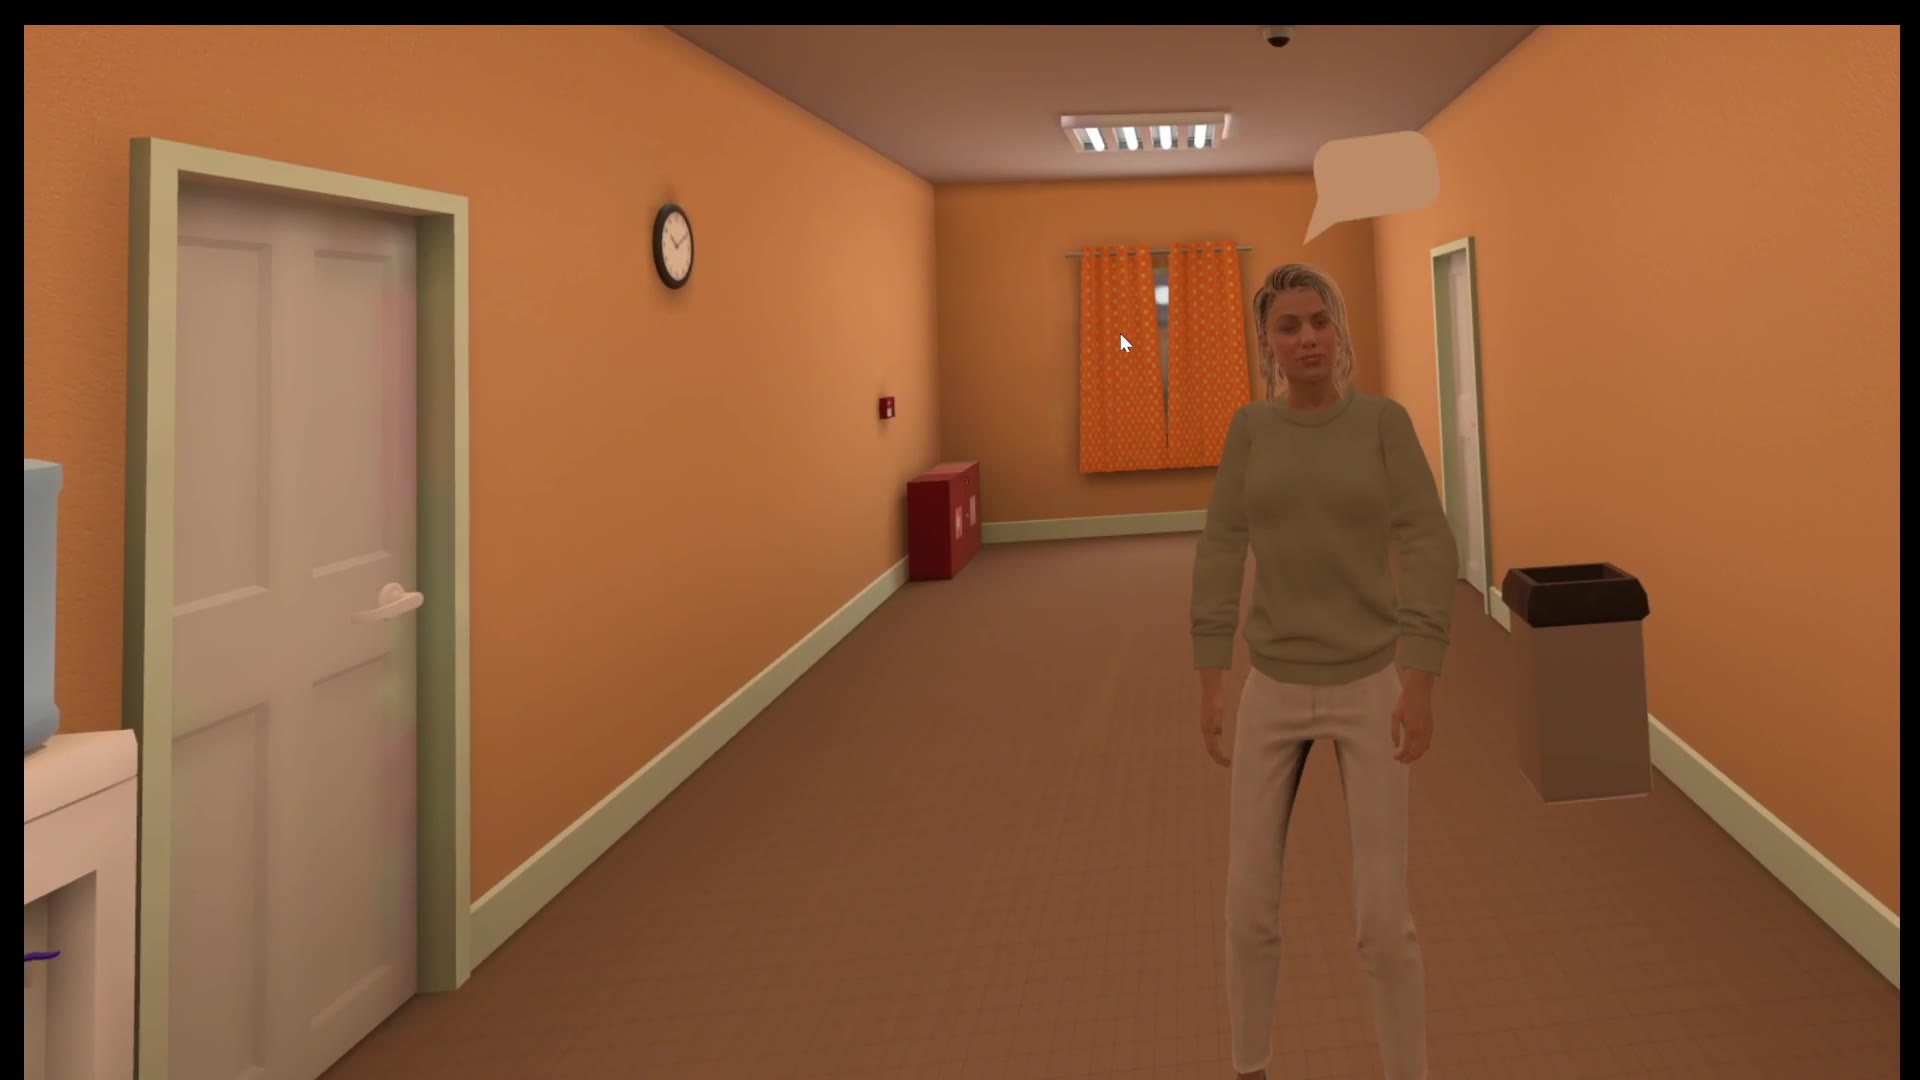
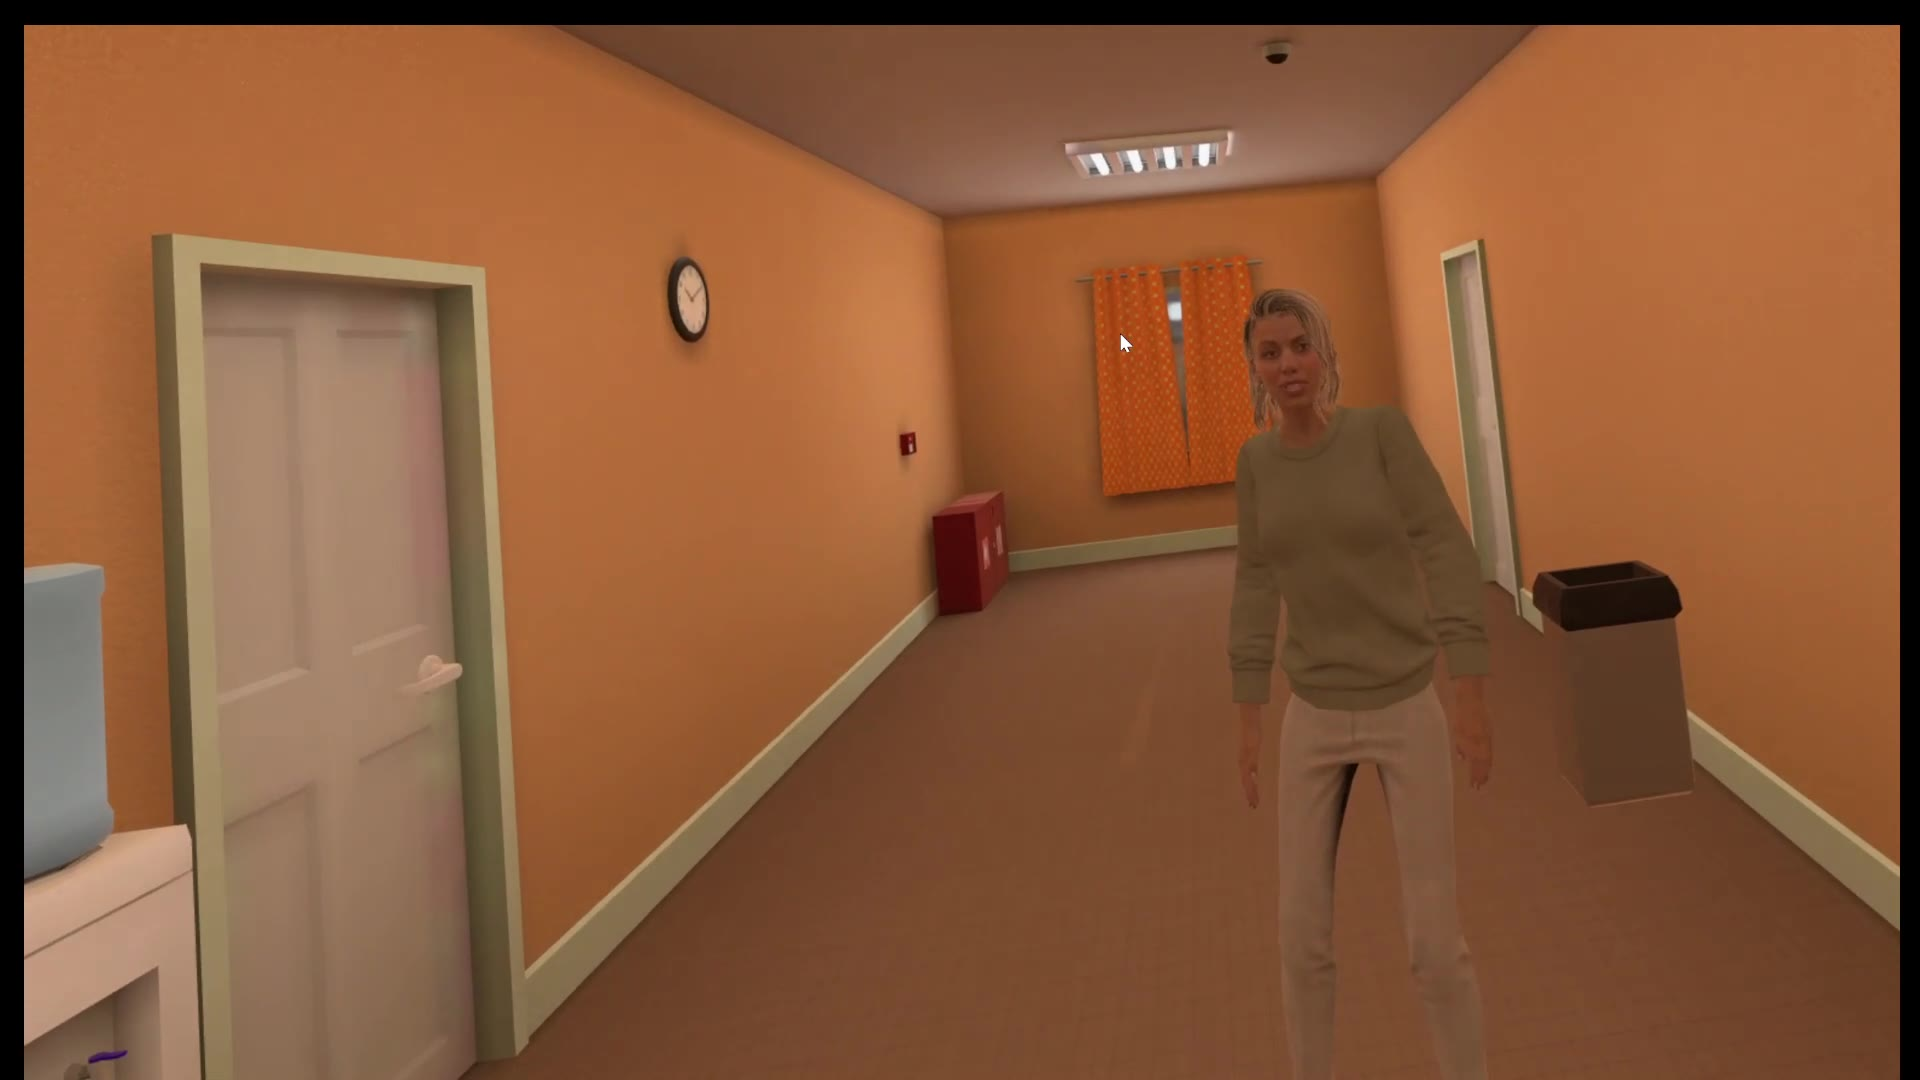
v0.1.6

Changed region(s): [[0.0, 0.0, 1.0, 1.0], [0.3125, 0.1833, 0.375, 0.3361], [0.6562, 0.0306, 0.6875, 0.0611]]

diff --git a/assets/css/custom.css b/assets/css/custom.css
@@ -3772,6 +3772,16 @@ code,
   object-fit: cover;
   border: 1px solid #191915;
 }
+.ale-project-gallery--contain img {
+  aspect-ratio: auto;
+  height: auto;
+  max-height: 520px;
+  object-fit: contain;
+  background: #fff;
+}
+.ale-project-gallery--contain figure {
+  min-width: 0;
+}
 .ale-project-feature {
   margin: 2rem 0 2.75rem;
 }
@@ -3840,6 +3850,32 @@ code,
   gap: 0.35rem;
   font-size: 0.78rem;
 }
+.ale-project-related-list {
+  margin: 1.5rem 0 3rem;
+  padding: 0;
+  border-top: 1px solid #191915;
+  list-style: none;
+}
+.ale-project-related-list li {
+  padding: 1rem 0;
+  display: grid;
+  grid-template-columns: minmax(150px, .35fr) minmax(0, 1fr) minmax(120px, .25fr);
+  gap: 1rem;
+  align-items: baseline;
+  border-bottom: 1px solid #191915;
+}
+.ale-project-related-list li > span,
+.ale-project-related-list small {
+  font-size: .72rem;
+  line-height: 1.4;
+  letter-spacing: .04em;
+  text-transform: uppercase;
+}
+.ale-project-related-list strong,
+.ale-project-related-list a {
+  font-size: .9rem;
+  line-height: 1.45;
+}
 
 @media (max-width: 720px) {
   .ale-project-gallery,
@@ -3851,5 +3887,9 @@ code,
   .ale-related-work article:nth-child(even) {
     padding: 1.15rem 0;
     border-left: 0;
+  }
+  .ale-project-related-list li {
+    grid-template-columns: 1fr;
+    gap: .35rem;
   }
 }

diff --git a/_projects/adamo.md b/_projects/adamo.md
@@ -1,28 +1,59 @@
 ---
 layout: page
 title: A.D.A.M.O.
-description: Visual-symbolic framework for language-driven virtual humans, combining VLM perception with symbolic reasoning and action.
-img: # copertina card: caricare un'immagine in assets/img/projects/ e mettere qui il percorso, es. assets/img/projects/adamo.jpg
+description: A virtual human that understands instructions and acts inside a 3D environment.
+img: assets/img/projects/adamo/video-poster.jpg
 importance: 1
 category: phd-research
 related_publications: true
 ---
 
-A.D.A.M.O. (**A**gent for language-**D**riven **A**ctions with **M**ultimodal **O**bservations) is a **visual-symbolic framework for language-driven virtual humans**: it combines **VLM perception** with **symbolic reasoning and action**, letting a virtual human ground natural-language instructions in what it actually perceives in the 3D environment.
+<p class="ale-project-lead">A.D.A.M.O. is an intelligent virtual human that can receive a natural-language instruction, observe a 3D environment and act inside it to complete the requested task.</p>
 
-I am currently extending the framework with **long-term spatial memory** for deep exploration of 3D environments, so that the agent can accumulate and reuse spatial knowledge over time instead of re-discovering the scene at every session.
+Virtual characters are usually good at only one side of the interaction. Conversational agents can speak but often have little awareness of their surroundings, while game characters can move and manipulate objects but depend on predefined scripts. A.D.A.M.O. brings language, visual perception and action into the same system, allowing a character to respond to new instructions without requiring a separate scripted sequence for each task.
 
-The framework is presented in {% cite pecora2026adamo %}.
-
-<p class="ale-project-actions"><a href="https://github.com/CGVGroup/ADAMO" target="_blank" rel="noopener noreferrer"><i class="fa-brands fa-github" aria-hidden="true"></i> Code <span aria-hidden="true">↗</span></a></p>
-
-{% comment %}
-Quando avrai screenshot/GIF/video, aggiungili così (immagini in assets/img/projects/):
-
-<div class="row">
-    <div class="col-sm mt-3 mt-md-0">
-        {% include figure.liquid loading="eager" path="assets/img/projects/adamo-1.jpg" title="A.D.A.M.O. demo" class="img-fluid rounded z-depth-1" %}
-    </div>
+<div class="ale-project-video">
+  <video controls preload="metadata" poster="{{ '/assets/img/projects/adamo/video-poster.jpg' | relative_url }}">
+    <source src="{{ '/assets/video/adamo-demo.mp4' | relative_url }}" type="video/mp4">
+    Your browser does not support embedded video.
+  </video>
+  <p>A.D.A.M.O. interprets the request, observes the room and moves objects to complete a spatial task.</p>
 </div>
-<div class="caption">Didascalia dell'immagine.</div>
-{% endcomment %}
+
+## How it works
+
+The virtual human works in a continuous loop: it looks at the environment, decides what to do next and performs an action. Its available actions are intentionally simple—looking, walking, picking up an object and placing it somewhere else—but they can be combined to solve more complex instructions.
+
+To understand the scene, A.D.A.M.O. combines the character's visual point of view with structured spatial information about visible objects. This visual-symbolic representation helps the AI connect phrases such as “the plate near the cup” with specific elements and positions in the virtual world. A short-term memory keeps the task and recent observations available while the character works through each step.
+
+<div class="ale-project-gallery ale-project-gallery--contain">
+  <figure>
+    <img src="{{ '/assets/img/projects/adamo/virtual-environment.png' | relative_url }}" alt="A.D.A.M.O. virtual human inside a furnished 3D room" loading="lazy">
+    <figcaption>The virtual human operates inside an interactive 3D environment.</figcaption>
+  </figure>
+  <figure>
+    <img src="{{ '/assets/img/projects/adamo/infrastructure.png' | relative_url }}" alt="Connection between the virtual environment, cognitive server and AI model" loading="lazy">
+    <figcaption>The simulation, actions and AI reasoning remain separate and can evolve independently.</figcaption>
+  </figure>
+</div>
+
+The current prototype was evaluated on everyday spatial tasks in two controlled scenes. The experiments show that clear semantic information about objects improves task completion, while visual perception remains the main source of difficulty in larger scenes. Current development is extending the agent with longer-term spatial memory so that it can retain and reuse knowledge about environments over time.
+
+## Context and collaboration
+
+A.D.A.M.O. was developed within the **Computer Graphics and Vision Group at Politecnico di Torino** as part of research on believable virtual humans, embodied AI and cognitive architectures. The work was presented at **CASA XR 2026**.
+
+## Related work
+
+<ul class="ale-project-related-list">
+  <li>
+    <span>Conference paper · CASA XR 2026 · in press</span>
+    <strong>A.D.A.M.O. (Agent for language-Driven Actions with Multimodal Observations): A Visual-Symbolic Framework for Virtual Humans</strong>
+    <small>A. E. Pecora, S. Calzolari, F. Strada and A. Bottino</small>
+  </li>
+  <li>
+    <span>Open-source software</span>
+    <a href="https://github.com/CGVGroup/ADAMO" target="_blank" rel="noopener noreferrer">A.D.A.M.O. project repository <span aria-hidden="true">↗</span></a>
+    <small>Code and project resources</small>
+  </li>
+</ul>

diff --git a/_projects/divine.md b/_projects/divine.md
@@ -1,59 +1,57 @@
 ---
 layout: page
 title: DIVINE
-description: From open vine imagery to an in-field, AI-assisted pipeline for grapevine disease detection.
+description: Computer vision for recognising grapevine diseases directly in the field.
 img: assets/img/projects/divine/field-rover.jpeg
 importance: 2
 category: applied-research
 ---
 
-<p class="ale-project-lead">DIVINE explores how computer vision can turn vineyard imagery into evidence for earlier, more targeted disease management—reducing the need for indiscriminate treatments while keeping deployment constraints in view.</p>
+<p class="ale-project-lead">DIVINE is a precision-agriculture project that uses cameras and artificial intelligence to recognise visible signs of disease on grapevine leaves. Its goal is to support faster and more targeted monitoring directly in the vineyard.</p>
 
-## From public data to the vineyard
+Vineyard diseases are often monitored manually, while treatments may be applied broadly because detailed information about each area is unavailable. Computer-vision systems could support more selective interventions, but real vineyards are much less predictable than controlled image datasets: leaves overlap, symptoms can be small, lighting changes and healthy samples greatly outnumber diseased ones. DIVINE focuses on these practical limitations.
 
-The project has evolved through two complementary research phases. The first established the data and modelling foundations. Four public sources were cleaned, harmonised and re-annotated to create the **Vine Leaf Vision Dataset**: nearly 10,000 images of individual leaves and vine walls, with more than 38,000 bounding-box annotations. Visual symptom patterns were used as labels so that non-specialist annotators could contribute with less diagnostic ambiguity. Experiments then studied how pre-training on this collection affected transfer to previously unseen diseases, comparing classification and object-detection families including MobileNet, Vision Transformers, YOLO and DETR.
-
-The current phase moves DIVINE into real acquisition conditions. At the experimental vineyard in Grugliasco, an autonomous electric rover carries a Nikon Z50 camera, controlled halogen lighting and centimetre-level GNSS RTK positioning. The campaign produced **1,832 high-resolution images**. A semi-automatic Label Studio workflow first proposes leaf boxes with YOLOv11n and a patch-based detector; a DISAFA agronomist then verifies the boxes and assigns disease labels. This keeps the speed benefit of machine assistance while reserving diagnosis for domain expertise.
-
-<div class="ale-project-gallery ale-project-gallery--three">
+<div class="ale-project-gallery ale-project-gallery--three ale-project-gallery--contain">
   <figure>
     <img src="{{ '/assets/img/projects/divine/field-rover.jpeg' | relative_url }}" alt="Autonomous acquisition rover between rows of grapevines" loading="eager">
-    <figcaption>The in-field acquisition platform in the Grugliasco experimental vineyard.</figcaption>
+    <figcaption>The acquisition platform operating in the experimental vineyard.</figcaption>
   </figure>
   <figure>
     <img src="{{ '/assets/img/projects/divine/ai-assisted-detection.jpeg' | relative_url }}" alt="Vine leaves with automatically proposed detection boxes" loading="lazy">
-    <figcaption>Automatic leaf localisation on high-resolution vineyard imagery.</figcaption>
+    <figcaption>AI-assisted localisation of leaves in a high-resolution image.</figcaption>
   </figure>
   <figure>
     <img src="{{ '/assets/img/projects/divine/expert-annotation.jpeg' | relative_url }}" alt="Expert-reviewed leaf boxes with disease labels" loading="lazy">
-    <figcaption>Expert review converts proposed boxes into disease-aware annotations.</figcaption>
+    <figcaption>Disease labels reviewed by an agronomy expert.</figcaption>
   </figure>
 </div>
 
-## Models and deployment trade-offs
+## How it works
 
-The new study compares a one-stage route—**YOLOv11n** and **RT-DETR** directly detecting disease classes—with a two-stage route in which YOLO first isolates each leaf and **Query2Label** classifies the crop. Baseline training, data augmentation, and tiling with minority-class oversampling test how the architectures respond to small symptoms, high-resolution inputs and strong class imbalance.
+Images are collected in the experimental vineyard with a mobile platform equipped with a high-resolution camera, controlled lighting and precise positioning. An AI-assisted tool proposes the location of individual leaves; an agronomy expert then reviews them and assigns the correct disease labels. This combines faster annotation with specialist supervision.
 
-The results do not point to a single model for every setting. The two-stage pipeline is the most robust option for offline monitoring, while **RT-DETR with tiling** offers the stronger accuracy–speed compromise for real-time field use. Because all current in-field data come from one experimental site, these results describe the present distribution rather than claiming generalisation to other vineyards. Multi-site acquisition and model compression through quantisation and pruning are the next steps.
+The resulting data are used to compare two approaches. A direct model finds and classifies diseased leaves in one step. A two-stage pipeline first isolates each leaf and then analyses it separately. The first approach is better suited to faster field use, while the second can provide a more careful analysis when processing time is less important.
 
 <figure class="ale-project-feature">
-  <img src="{{ '/assets/img/projects/divine/two-stage-pipeline.png' | relative_url }}" alt="Two-stage DIVINE pipeline: YOLO detects and crops leaves, then Query2Label classifies each crop" loading="lazy">
-  <figcaption>The two-stage pipeline separates leaf localisation from disease classification.</figcaption>
+  <img src="{{ '/assets/img/projects/divine/two-stage-pipeline.png' | relative_url }}" alt="DIVINE pipeline in which leaves are detected, cropped and then classified" loading="lazy">
+  <figcaption>The two-stage approach separates leaf detection from disease recognition.</figcaption>
 </figure>
 
-## Related theses and outputs
+## Context and collaboration
 
-<div class="ale-related-work">
-  <article>
-    <span class="ale-related-work__status">Master's thesis · 2024 · published</span>
-    <h3>DIVINE: DIagnosis of grapeVIne diseases through NEural networks and deep learning</h3>
-    <p><strong>Fabrizio Sanino</strong>, supervised by Prof. Andrea Bottino. Introduced the Vine Leaf Vision Dataset, AI-assisted annotation tools, transfer-learning baselines and the original embedded-deployment analysis.</p>
-    <a href="https://webthesis.biblio.polito.it/31783/" target="_blank" rel="noopener noreferrer"><i class="fa-solid fa-graduation-cap" aria-hidden="true"></i> Thesis record <span aria-hidden="true">↗</span></a>
-    <a href="https://github.com/fabriziosanino/grape_leaves_detection" target="_blank" rel="noopener noreferrer"><i class="fa-brands fa-github" aria-hidden="true"></i> Code <span aria-hidden="true">↗</span></a>
-  </article>
-  <article>
-    <span class="ale-related-work__status">Master's thesis · 2025–2026 · forthcoming</span>
-    <h3>DIVINE: Imaging Diagnosis of Vine diseases using Neural networks and deep learning</h3>
-    <p><strong>Matteo Giardino</strong>, supervised by Prof. Andrea Bottino and PhD Alessandro Emmanuel Pecora. Extends DIVINE with real vineyard acquisitions, expert-reviewed disease labels, modern one-stage detectors and a specialised two-stage pipeline.</p>
-  </article>
-</div>
+DIVINE is developed at **Politecnico di Torino** through collaboration between computer-vision researchers and agronomy experts. Field acquisition and expert annotation are carried out with support from **DISAFA**, using the experimental vineyard in Grugliasco.
+
+## Related work
+
+<ul class="ale-project-related-list">
+  <li>
+    <span>Master's thesis · 2024</span>
+    <a href="https://webthesis.biblio.polito.it/31783/" target="_blank" rel="noopener noreferrer">DIVINE: DIagnosis of grapeVIne diseases through NEural networks and deep learning <span aria-hidden="true">↗</span></a>
+    <small>Fabrizio Sanino</small>
+  </li>
+  <li>
+    <span>Master's thesis · 2025–2026 · forthcoming</span>
+    <strong>DIVINE: Imaging Diagnosis of Vine diseases using Neural networks and deep learning</strong>
+    <small>Matteo Giardino</small>
+  </li>
+</ul>

diff --git a/_projects/lazarus.md b/_projects/lazarus.md
@@ -1,59 +1,50 @@
 ---
 layout: page
 title: Project Lazarus
-description: An LLM-driven cognitive architecture for an immersive virtual patient in healthcare communication training.
+description: An immersive virtual patient for healthcare communication training.
 img: assets/img/projects/lazarus/video-poster.jpg
 importance: 2
 category: phd-research
 ---
 
-<p class="ale-project-lead">Project Lazarus is an immersive virtual patient for practising difficult healthcare conversations. It combines open-ended voice interaction with an explicit, evolving model of the patient's emotions and willingness to act.</p>
+<p class="ale-project-lead">Project Lazarus is an immersive training application where healthcare professionals can practise difficult conversations with a virtual patient. The trainee speaks naturally, while the patient listens, responds and changes attitude according to how the conversation develops.</p>
 
-## Training through conversation
-
-Traditional role-play with actors is valuable but costly to scale, difficult to repeat under controlled conditions and limited in the interaction data it can preserve. Lazarus provides a complementary rehearsal environment: a trainee speaks naturally with an embodied patient in a realistic care room, while the system interprets verbal, paraverbal and nonverbal cues and generates an affect-aware response.
-
-The same cognitive architecture supports two frontends: a web interface for turn-by-turn inspection and expert annotation, and an immersive VR experience for realistic rehearsal. After the session, the recorded interaction state can support reflection on the communication strategies used by the trainee.
+Existing training often relies on role-play with actors. Although effective, these sessions can be expensive, difficult to repeat and hard to reproduce consistently. Lazarus provides a controlled environment in which a conversation can be rehearsed several times and reviewed afterwards, without replacing human-led training.
 
 <div class="ale-project-video">
   <video controls preload="metadata" poster="{{ '/assets/img/projects/lazarus/video-poster.jpg' | relative_url }}">
     <source src="{{ '/assets/video/lazarus-demo.mp4' | relative_url }}" type="video/mp4">
     Your browser does not support embedded video.
   </video>
-  <p>Project walkthrough: conversational interaction, patient-state evolution and the immersive training environment.</p>
+  <p>Project Lazarus in use. The spoken demonstration is in Italian.</p>
 </div>
 
-## Cognitive architecture
+## How it works
 
-At every turn, the runtime sends the trainee's multimodal input to a graph-based cognitive architecture server. LLM modules identify the communication technique, assess interaction quality, update the patient state and compose the next response. The internal state combines an emotion representation in **Pleasure–Arousal–Dominance (PAD)** space with a scalar **Disposition to Act**, modelling the patient's readiness to engage in the target activity. This makes the patient's behaviour depend on the trajectory of the conversation rather than on isolated prompts.
+The application connects a virtual environment with an AI-based cognitive architecture. During the interaction, the system considers what the trainee says, how it is said and selected nonverbal cues. It uses this information to update the patient's emotional condition and willingness to cooperate, then generates the next response.
+
+The same system can be used through two interfaces. The web application makes each conversational step and the patient state visible, helping experts inspect and review an interaction. The VR application places the trainee directly inside a simulated care room for a more natural rehearsal experience.
 
 <figure class="ale-project-feature ale-project-feature--diagram">
-  <img src="{{ '/assets/img/projects/lazarus/system-architecture.png' | relative_url }}" alt="Information flow between the Lazarus runtime, cognitive architecture server and language-model providers" loading="lazy">
-  <figcaption>Shared information flow across the web and VR frontends.</figcaption>
+  <img src="{{ '/assets/img/projects/lazarus/system-architecture.png' | relative_url }}" alt="Information flow between the Lazarus application, cognitive architecture and AI services" loading="lazy">
+  <figcaption>A shared cognitive architecture connects the user experience with the AI services.</figcaption>
 </figure>
 
-<div class="ale-project-gallery">
+<div class="ale-project-gallery ale-project-gallery--contain">
   <figure>
-    <img src="{{ '/assets/img/projects/lazarus/web-interface.png' | relative_url }}" alt="Lazarus web interface showing interaction cues and patient state" loading="lazy">
-    <figcaption>Web interface for controlled rehearsal, state inspection and expert annotation.</figcaption>
+    <img src="{{ '/assets/img/projects/lazarus/web-interface.png' | relative_url }}" alt="Lazarus web interface showing the conversation and virtual patient" loading="lazy">
+    <figcaption>Web interface for inspecting and reviewing the interaction.</figcaption>
   </figure>
   <figure>
-    <img src="{{ '/assets/img/projects/lazarus/vr-environment.png' | relative_url }}" alt="Immersive Lazarus virtual patient in a care room" loading="lazy">
-    <figcaption>Immersive VR frontend in a realistic care-room scenario.</figcaption>
+    <img src="{{ '/assets/img/projects/lazarus/vr-environment.png' | relative_url }}" alt="Lazarus immersive care-room environment" loading="lazy">
+    <figcaption>Immersive training inside a simulated care room.</figcaption>
   </figure>
 </div>
 
-## Related publication and IP
+## Context and collaboration
 
-<div class="ale-related-work">
-  <article>
-    <span class="ale-related-work__status">Conference paper · preliminary evaluation · forthcoming</span>
-    <h3>Design and Preliminary Evaluation of an LLM-Driven Cognitive Architecture for an Immersive Virtual Patient in Healthcare Communication Training</h3>
-    <p>Ciro Annicchiarico, Alessia Gianolla, Alessandro Emmanuel Pecora, Stefano Calzolari, Francesco Strada, Andrea Bottino, Beatrice Albanesi, Ilaria Lovetro and Silvia Gonella.</p>
-  </article>
-  <article>
-    <span class="ale-related-work__status">Intellectual property</span>
-    <h3>Patent application in preparation</h3>
-    <p>The application covers aspects of the cognitive architecture and its use in immersive healthcare communication training.</p>
-  </article>
-</div>
+Lazarus is being developed as part of PhD research at **Politecnico di Torino**, in collaboration with healthcare researchers from the **University of Turin**. The project brings together expertise in artificial intelligence, virtual environments, communication and healthcare education.
+
+## Research status
+
+We are currently preparing a scientific study for publication, and a patenting process related to the project is underway.